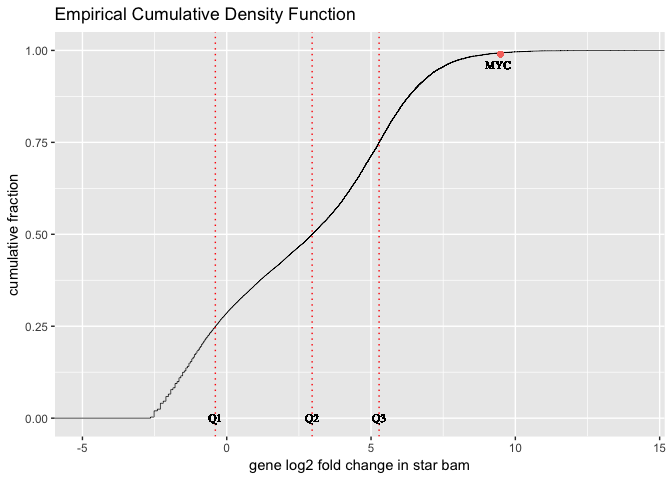
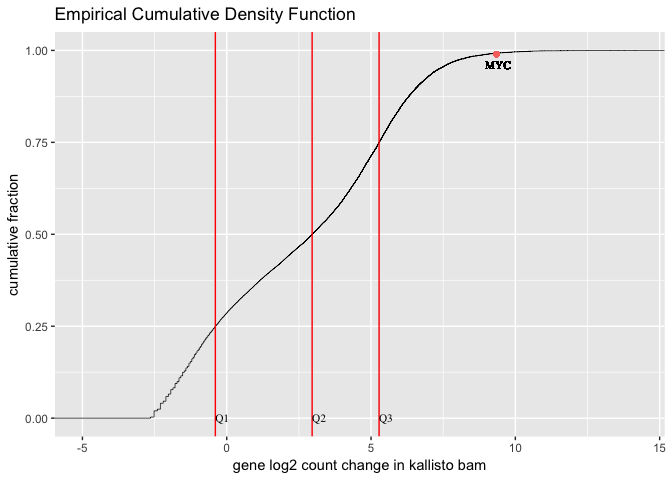
improving code :star2:

diff --git a/Misc/featureCount-Unknown_B.md b/Misc/featureCount-Unknown_B.md
@@ -1,7 +1,7 @@
 ---
 title: "Empirial Cumulative Density Function (ECDF) Analysis on Sample Unknown_B"
 author: "Sehrish Kanwal"
-date: "Thu 2018-May-24"
+date: "Mon 2018-May-28"
 output: 
   html_document: 
     toc: true
@@ -489,18 +489,18 @@ q1 <- quantile(df$kallisto.bam)[2]
 q2 <- quantile(df$kallisto.bam)[3]
 q3 <- quantile(df$kallisto.bam)[4]
 
+#Making a tibble from quartiles
+events <- data_frame(quartiles = c(q1,q2,q3),
+                     text = c('Q1','Q2','Q3'))
+
 # Plot stat_ecdf for kallisto 
 p <- ggplot(df, aes(df$kallisto.bam)) + 
   stat_ecdf(geom = "step", size = 0.25) +
-  geom_vline(xintercept = q1, linetype="dotted", color = "red") +
-  geom_text(aes(x=q1, label="Q1", y=0), family="Times", size = 3) +
-  geom_vline(xintercept = q2, linetype="dotted", color = "red") +
-  geom_text(aes(x=q2, label="Q2", y=0), family="Times", size = 3) +
-  geom_vline(xintercept = q3, linetype="dotted", color = "red") +
-  geom_text(aes(x=q3, label="Q3", y=0), family="Times", size = 3) +
+  geom_vline(data = events, aes(xintercept = events$quartiles), color = "red") +
+  geom_text(data = events, mapping = aes(label = events$text, y = 0, x = quartiles), family="Times", size = 3, hjust = 0) +
   geom_point(aes(x=df["ENSG00000136997", 1], y=0.99 , colour = "yellow"), show.legend = FALSE, label="MYC") +
   geom_text(aes(x=9.4, label="MYC", y=0.96), family="Times", size = 3) +
-  labs(title="Empirical Cumulative Density Function", y = "cumulative fraction", x="gene log2 fold change in kallisto bam")
+  labs(title="Empirical Cumulative Density Function", y = "cumulative fraction", x="gene log2 count change in kallisto bam")
 ```
 
 ```
@@ -518,23 +518,25 @@ p
 
 
 ```r
+df <- as.data.frame(logcounts)
+
 #Preparing quartiles
 q1 <- quantile(df$star.bam)[2]
 q2 <- quantile(df$star.bam)[3]
 q3 <- quantile(df$star.bam)[4]
 
+#Making a tibble from quartiles
+events <- data_frame(quartiles = c(q1,q2,q3),
+                     text = c('Q1','Q2','Q3'))
+
 # Plot stat_ecdf for kallisto 
-p <- ggplot(df, aes(df$star.bam)) +
-  stat_ecdf(geom = "step", size = 0.25) + 
-  geom_vline(xintercept = q1, linetype="dotted", color = "red") +
-  geom_text(aes(x=q1, label="Q1", y=0), family="Times", size = 3) +
-  geom_vline(xintercept = q2, linetype="dotted", color = "red") +
-  geom_text(aes(x=q2, label="Q2", y=0), family="Times", size = 3) +
-  geom_vline(xintercept = q3, linetype="dotted", color = "red") +
-  geom_text(aes(x=q3, label="Q3", y=0), family="Times", size = 3) +
-  geom_point(aes(x=df["ENSG00000136997", 2], y=0.99 , colour = "yellow"), show.legend = FALSE, label="MYC") +
+p <- ggplot(df, aes(df$star.bam)) + 
+  stat_ecdf(geom = "step", size = 0.25) +
+  geom_vline(data = events, aes(xintercept = events$quartiles), color = "red") +
+  geom_text(data = events, mapping = aes(label = events$text, y = 0, x = quartiles), family="Times", size = 3, hjust = 0) +
+  geom_point(aes(x=df["ENSG00000136997", 1], y=0.99 , colour = "yellow"), show.legend = FALSE, label="MYC") +
   geom_text(aes(x=9.4, label="MYC", y=0.96), family="Times", size = 3) +
-  labs(title="Empirical Cumulative Density Function", y = "cumulative fraction", x="gene log2 fold change in star bam")
+  labs(title="Empirical Cumulative Density Function", y = "cumulative fraction", x="gene log2 count change in kallisto bam")
 ```
 
 ```
